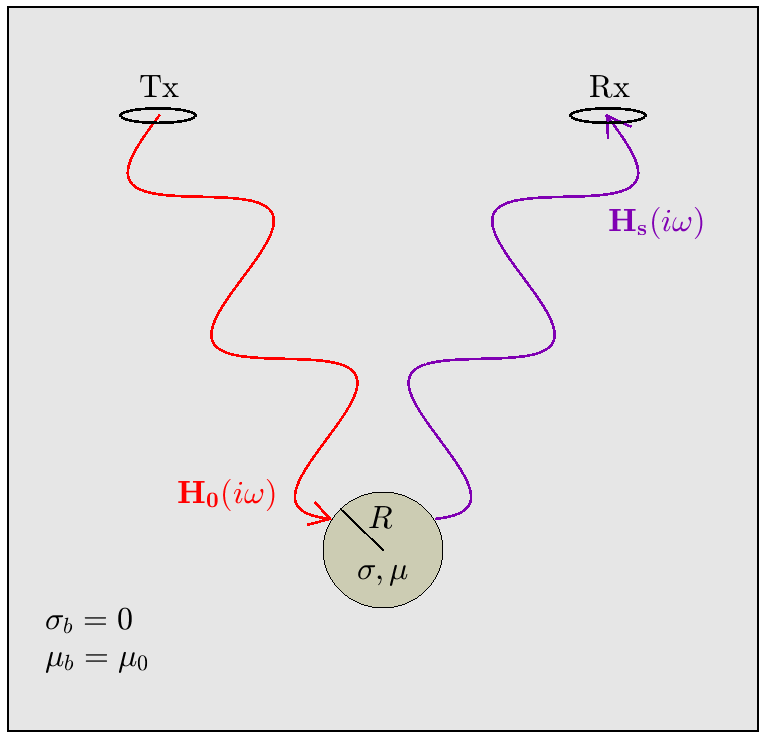
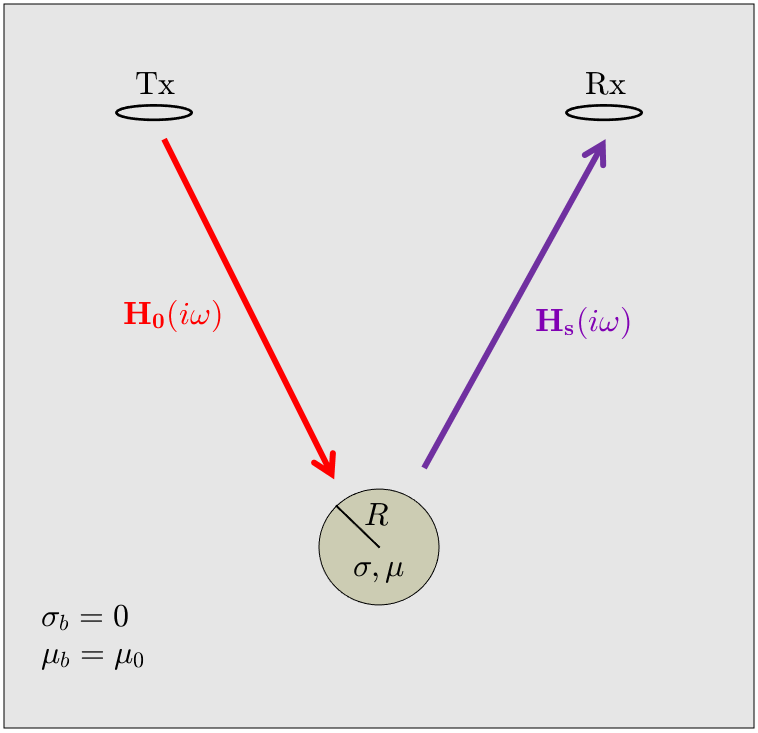
Added citations, cleaned up figures, added Purpose formatting

diff --git a/content/maxwell3_fdem/fields_from_inductive_sources/sphere/sphereFEM_dipole_response.rst b/content/maxwell3_fdem/fields_from_inductive_sources/sphere/sphereFEM_dipole_response.rst
@@ -3,15 +3,28 @@
 The Sphere's Dipolar Response
 -----------------------------
 
-**Purpose**: Here, expressions from Wait (1951) are presented for predicting the dipole response from a conductive and magnetically permeable sphere in free-space.
-We show how the characteristic response of the sphere is dependent on its excitation factor; where the excitation factor is used to define the induced dipole moment of the sphere.
+.. Purpose::
 
-.. figure:: ./images/figFreeSpaceSphere.png
+        Here, expressions from Wait (:cite:`Wait1951`) are presented for predicting the dipole response from a conductive and magnetically permeable sphere in free-space.
+        We show how the characteristic response of the sphere is dependent on its excitation factor; where the excitation factor is used to define the induced dipole moment of the sphere.
+
+.. sidebar:: Problem Geometry
+
+    .. figure:: ./images/figFreeSpaceSphere.png
         :align: right
-        :figwidth: 40%
+        :figwidth: 100%
         :name: FreeSpaceSphere
 
         Problem geometry for a conductive and magnetically permeable sphere in free-space.
+
+    .. figure:: ./images/figDipoleField.png
+        :align: right
+        :figwidth: 100%
+        :name: DipoleField
+        
+        Dipolar response :math:`{\bf H} (i\omega)` (purple) from a conductive and magnetically permeable sphere, under the influence of a spatially uniform, harmonic inducing field :math:`{\bf H_0} (i\omega)` (red). The induced dipole moment (blue) is represented by :math:`{\bf m} (i\omega)`.
+
+
 
 Consider the problem geometry illustrated in :numref:`FreeSpaceSphere`, wherein a sphere of radius :math:`R`, conductivity :math:`\sigma` and magnetic permeability :math:`\mu` is located in the vicinity of an inductive source transmitter (Tx).
 The transmitter generates a harmonic primary field :math:`{\bf H_0} (i\omega)` which induces an excitation within the sphere.
@@ -19,14 +32,8 @@ Because we are in free-space, :math:`{\bf H_0} (i\omega)` may be calculated usin
 The excitation induced within the sphere produces a secondary field :math:`{\bf H_s} (i\omega)` which is then measured by a receiver coil (Rx).
 
 
-.. figure:: ./images/figDipoleField.png
-        :align: right
-        :figwidth: 40%
-        :name: DipoleField
-        
-        Dipolar response :math:`{\bf H} (i\omega)` (purple) from a conductive and magnetically permeable sphere, under the influence of a spatially uniform, harmonic inducing field :math:`{\bf H_0} (i\omega)` (red). The induced dipole moment (blue) is represented by :math:`{\bf m} (i\omega)`.
 
-To approximate the sphere's response, Wait (1951) considered the dipole response from a conductive and magnetically permeable sphere under the influence of a spatially uniform, harmonic field (:numref:`DipoleField`).
+To approximate the sphere's response, Wait (:cite:`Wait1951`) considered the dipole response from a conductive and magnetically permeable sphere under the influence of a spatially uniform, harmonic field (:numref:`DipoleField`).
 For inductive sources, the inducing field may be considered spatially uniform about the sphere if 1) the radius of the sphere is much smaller than the wavelength of the inducing field , and 2) the distance between the transmitter and the sphere is sufficiently larger than the sphere's radius (typically :math:`> 10R` ).
 For a magnetic dipole moment :math:`{\bf m} (i\omega)`, the dipole field :math:`{\bf H} (i\omega)` is given by:
 
@@ -44,7 +51,7 @@ The magnetic dipole moment which characterizes the sphere's excitation is given 
 where :math:`\chi (i\omega)` is defined as the sphere's excitation factor.
 The dipole moment is therefore a product of the sphere's volume, its excitation factor, and the inducing field.
 The excitation factor is used to characterize the nature of the sphere's frequency-domain response.
-An explicit expression for the excitation factor is given by (Wait, 1951):
+An explicit expression for the excitation factor is given by (:cite:`Wait1951`):
 
 .. math::
 	\chi (i \omega) = \frac{3}{2} \Bigg [ \! \frac{2\mu \big [ tanh(\alpha) - \alpha  \big ] + \mu_0 \big [\alpha^2 \, tanh(\alpha) - \alpha + tanh(\alpha) \big ] }{\mu  \big [ tanh(\alpha) - \alpha \big ] - \mu_0 [ \alpha^2 \, tanh(\alpha) - \alpha + tanh(\alpha) \big ] } \! \Bigg ]
@@ -68,9 +75,6 @@ An example for the excitation factor as a function of frequency is shown in :num
 To summarize, Eqs. :eq:`eqDipoleVacuum`, :eq:`eqDipoleMoment` and :eq:`eqExcitationFactor` can be used to approximate the dipole response from a conductive and magnetically permeable sphere.
 The nature of the sphere's response is characterized by the sphere's excitation factor.
 The excitation factors for several cases are discussed in the :ref:`following section<sphereFEM_excitation_factor>`.
-
-
-References: Wait, J. R., 1951, "A conductive sphere in a time varying magnetic field," Geophysics, vol. 16, pp. 666-672.
 
 
 

diff --git a/content/maxwell3_fdem/fields_from_inductive_sources/sphere/sphereFEM_schelkunoff.rst b/content/maxwell3_fdem/fields_from_inductive_sources/sphere/sphereFEM_schelkunoff.rst
@@ -3,7 +3,9 @@
 Derivation of the Excitation Factor
 ===================================
 
-**Purpose**: In this section, the excitation factor for a conductive and magnetically permeable sphere in free-space is derived according to Wait (1951).
+.. Purpose::
+
+	In this section, the excitation factor for a conductive and magnetically permeable sphere in free-space is derived according to Wait (:cite:`Wait1951`).
 
 The geometry of this problem is illustrated in :numref:`SchelkunoffGeometry`, where :math:`{\bf H_0}(i\omega)` represents the inducing field, :math:`{\bf m}(i\omega)` is the induced magnetic dipole moment of the sphere, and :math:`{\bf H}(i\omega)` is the resulting dipole response.
 :math:`\sigma_s`, :math:`\mu_s` and :math:`\varepsilon_s` represent the conductivity, magnetic permeability and electric permittivity of the sphere, respectively.
@@ -50,7 +52,7 @@ The wavenumber :math:`\gamma` depends on the physical properties of the media, a
 	\gamma = \Big [ i \omega \mu \sigma - \omega^2 \mu \varepsilon \Big ]^{1/2}
 	:label: Wave_Number
 
-For his derivation, Wait (1951) considered the induced magnetic dipole moment resulting from an incident plane wave.
+For his derivation, Wait (:cite:`Wait1951`) considered the induced magnetic dipole moment resulting from an incident plane wave.
 If the wavelength of the incident wave is sufficiently larger than the radius of the sphere (i.e. :math:`|\gamma_b |/2\pi \ll R`), then we may assume the magnetic field which excites the sphere is spatially uniform about the sphere.
 For an inducing field of the form :math:`{\bf H_0} (i\omega) = H_0 e^{i\omega t} {\bf \hat z}`, symmetry of the problem implies that :math:`{\bf E}` only has components in :math:`\boldsymbol{\hat \phi}`.
 Therefore by Eq. :eq:`SchelkunoffE`, it follows that our Schelkunoff potential will only have components in :math:`{\bf \hat z}` as well.
@@ -67,7 +69,7 @@ The Schulkunoff potential may be obtained by considering seperate solutions insi
 
 
 For our problem, boundary conditions on the sphere require that tanjential components of the magnetic field and normal components of the flux density must be continuous.
-According to Wait (1951), these conditions are satisfied by the following expressions:
+According to Wait (:cite:`Wait1951`), these conditions are satisfied by the following expressions:
 
 .. math::
 	\textrm{At }r=R: \; \begin{cases}
@@ -77,7 +79,7 @@ According to Wait (1951), these conditions are satisfied by the following expres
 	\end{cases}
 	:label: BoundaryConditions
 
-To solve the boundary value problem, Wait (1951) expressed the solutions, both inside and outside of the sphere, as a sum of spherical harmonic modes with coefficients :math:`a_n` and :math:`b_n`, respectively.
+To solve the boundary value problem, Wait (:cite:`Wait1951`) expressed the solutions, both inside and outside of the sphere, as a sum of spherical harmonic modes with coefficients :math:`a_n` and :math:`b_n`, respectively.
 For the boundary conditions to be satisfied however, he found that coefficients :math:`a_n=b_n=0 \; \forall \; n>0`.
 As a result, the solution to the Schelkunoff potentials inside and outside the sphere are defined by:
 
@@ -126,7 +128,7 @@ where
 	\alpha = \Big [ i\omega \mu_s \sigma_s \Big ]^{1/2}R
 	:label: alpha
 
-Wait (1951) simplified the solution outside the sphere by considering the dipole field within a vacuum.
+Wait (:cite:`Wait1951`) simplified the solution outside the sphere by considering the dipole field within a vacuum.
 For a dipole moment :math:`{\bf m} (i\omega)`, the dipole field :math:`{\bf H} (i\omega)` is given by (Griffiths, 1999):
 
 .. math::
@@ -148,4 +150,3 @@ According the Eq. :eq:`DipoleMoment`, :math:`{\bf m} (i\omega)` may also be expr
 	:label: ChiApprox
 
 
-References: Wait, J. R., 1951, "A conductive sphere in a time varying magnetic field," Geophysics, vol. 16, pp. 666-672.

diff --git a/content/maxwell3_fdem/fields_from_inductive_sources/sphere/index.rst b/content/maxwell3_fdem/fields_from_inductive_sources/sphere/index.rst
@@ -1,34 +1,40 @@
 .. _sphereFEM_freespace_index:
 
-Response from a Conductive and Magnetically Permeable Sphere
-============================================================
+Sphere
+======
 
 .. Purpose::
 
-    Here, we explore the nature of frequency-domain responses generated by compact ore-bodies and unexploded ordnance items. If contained within a resistive media, this may be accomplished by considering the dipole response from a conductive and magnetically permeable sphere in free-space. The associated analytic expressions are provided by Wait (:cite:`Wait1951`).
+    Here, we consider the dipole response from a conductive and magnetically permeable sphere in free-space.
+    Analytic expressions presented here were derived by Wait (:cite:`Wait1951`).
+    These expressions can be used to explore the nature of frequency-domain responses generated by compact ore-bodies and unexploded ordnance items within resistive media.
+    Thus by understanding the response from a sphere, we can gain insight regarding practical geophysical scenarios.
 
-Introduction
-------------
 
-.. figure:: ./images/figOreBodya.png
+.. sidebar:: Problem Geometry
+
+    .. figure:: ./images/figOreBodya.png
         :align: right
-        :figwidth: 40%
+        :figwidth: 100%
         :name: ProblemGeometry
 
         Problem geometry for a compact target located within a resistive medium.
 
-.. figure:: ./images/figFreeSpaceb.png
+    .. figure:: ./images/figFreeSpaceb.png
+        :align: right
+        :figwidth: 100%
+        :name: FreeSpaceGeometry
 
+        Problem geometry for a conductive and magnetically permeable sphere in free-space.
+
+
+Introduction
+------------
 
 For a compact target within a resistive medium, the frequency-domain response can be understood by considering the problem geometry illustrated in :numref:`ProblemGeometry`; where the target has conductivity :math:`\sigma` and magnetic permeability :math:`\mu`, and the host medium has conductivity :math:`\sigma_b \ll \sigma` and magnetic permeability :math:`\mu_b=\mu_0`.
 In this case, the transmitter generates a harmonic primary field :math:`{\bf H_p} (i\omega)`, which induces an excitation within the target.
 The excitation induced within the target produces a secondary field :math:`{\bf H_s} (i\omega)`, which is then measured by a receiver coil (Rx).
 
-        :align: right
-        :figwidth: 40%
-        :name: FreeSpaceGeometry
-
-        Problem geometry for a conductive and magnetically permeable sphere in free-space.
 
 
 On a fundamental level, the geophysical problem illustrated in :numref:`ProblemGeometry` may be understood by considering a conductive and magnetically permeable sphere in free-space (:numref:`FreeSpaceGeometry`).
@@ -40,7 +46,7 @@ The free-space problem will act as the basis for our analysis of frequency-domai
 Outline
 -------
 
-The analysis presented in this section follows expressions derived by Wait (1951).
+The analysis presented in this section follows expressions derived by Wait (:cite:`Wait1951`).
 Wait considered the free-space dipole response from a conductive and magnetically permeable sphere, under the influence of a spatially uniform, harmonic field.
 Analytic expression, and the conditions in which they are valid, are presented :ref:`here<sphereFEM_dipole_response>`.
 The characteristic response of a conductive and magnetically permeable sphere may be defined in terms of an excitation factor.
@@ -58,7 +64,5 @@ A supporting derivation for the excitation factor can be found :ref:`here<sphere
     sphereFEM_excitation_factor
     sphereFEM_schelkunoff
 
-
-References: Wait, J. R., 1951, "A conductive sphere in a time varying magnetic field," Geophysics, vol. 16, pp. 666-672.
 
 

diff --git a/content/maxwell3_fdem/fields_from_inductive_sources/sphere/sphereFEM_excitation_factor.rst b/content/maxwell3_fdem/fields_from_inductive_sources/sphere/sphereFEM_excitation_factor.rst
@@ -3,15 +3,17 @@
 Excitation Factor for Special Cases
 ===================================
 
-**Purpose**: The characteristic dipole response from a conductive and magnetically permeable sphere is defined by its excitation factor.
-Here, we present analytic expressions and discuss the excitation factors for several specific cases, including: a conductive and magnetically permeable sphere, a purely conductive sphere, and the zero-frequency response from a highly permeable sphere.
+.. Purpose::
+
+	The characteristic dipole response from a conductive and magnetically permeable sphere is defined by its excitation factor.
+	Here, we present analytic expressions and discuss the excitation factors for several specific cases, including: a conductive and magnetically permeable sphere, a purely conductive sphere, and the zero-frequency response from a highly permeable sphere.
 
 
 Conductive and Magnetically Permeable Sphere
 --------------------------------------------
 
 
-According to Wait (1951), the excitation factor for a conductive and magnetically permeable sphere is given by:
+According to Wait (:cite:`Wait1951`), the excitation factor for a conductive and magnetically permeable sphere is given by:
 
 .. math::
 	\chi (i \omega) = \frac{3}{2} \Bigg [ \! \frac{2\mu \big [ tanh(\alpha) - \alpha  \big ] + \mu_0 \big [\alpha^2 \, tanh(\alpha) - \alpha + tanh(\alpha) \big ] }{\mu  \big [ tanh(\alpha) - \alpha \big ] - \mu_0 [ \alpha^2 \, tanh(\alpha) - \alpha + tanh(\alpha) \big ] } \! \Bigg ]
@@ -118,11 +120,6 @@ The largest possible magnetic response from a sphere can be obtained by taking t
 	\lim_{\kappa \rightarrow \infty} \, \bar \chi (\kappa) = 3.
 	:label: ChiLimitKappa
 	
-
-
-References: Wait, J. R., 1951, "A conductive sphere in a time varying magnetic field," Geophysics, vol. 16, pp. 666-672.
-
-
 
 
 
